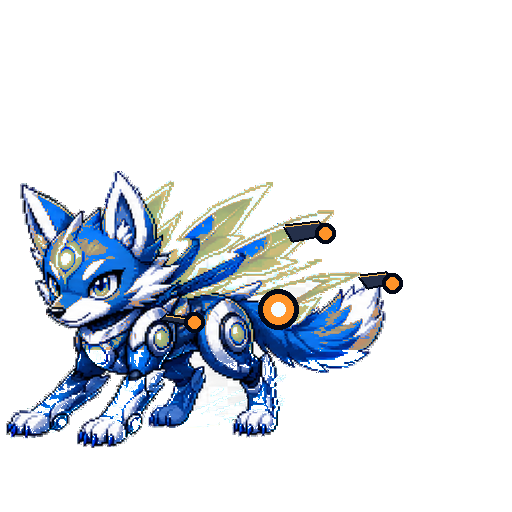
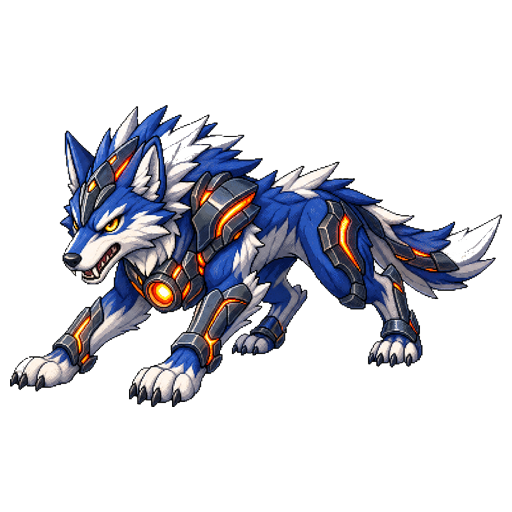
art: adopt S1 Cobalt Pup reboot line

diff --git a/docs/CODEX_S1_COBALT_PUP_L1_L2_REBOOT_20260615.md b/docs/CODEX_S1_COBALT_PUP_L1_L2_REBOOT_20260615.md
@@ -1,0 +1,283 @@
+# S1 Cobalt Pup L1/L2 Reboot Raw Candidates - 2026-06-15
+
+Status: **S1_COBALT_PUP_L1_L2_REBOOT_READY**
+
+Scope:
+- Codex generated raw visual candidates only.
+- No TECH_FIX.
+- No production PNG overwrite.
+- No `Assets/Resources/Skins` save.
+- No `.meta` edit.
+- No `CoreLanternGame.cs` edit.
+- No Unity settings / Prefab / Scene edit.
+- No git add / commit / push.
+
+Goal:
+- Rebuild S1 Cobalt Pup L1/L2 so the current L0 and current L3 routes connect more naturally.
+- L0 remains the young base form.
+- L1 should read as the first route growth.
+- L2 should read as a stronger middle route form that leads to the existing L3.
+- Current L3 and Fusion/ULTIMATE images were not changed.
+
+Preview:
+- `C:\Users\kodai\OneDrive\デスクトップ\claudecode-app\CoreLanternUnity\tmp_diag\S1_CobaltPup_L1_L2_Reboot_Preview_20260615.png`
+
+## Raw Candidate Outputs
+
+| Candidate ID | Intended file | Route civilization | Raw path | Candidate copy | Raw size |
+|---|---|---|---|---|---|
+| `S1_R1_L1_RAW_REBOOT_CYBER_01` | `Partner_S1_R1_L1.png` | R1 SPEED / cyber civilization | `C:\Users\kodai\.codex\generated_images\019e3668-9b71-7e42-91f4-6483282ef9b8\ig_0d7ad4a82b080f68016a2ed93883648191bedcdbaed339fd77.png` | `C:\Users\kodai\OneDrive\デスクトップ\claudecode-app\CoreLanternUnity\tmp_diag\candidates_hold\S1_R1_L1_RAW_REBOOT_CYBER_01.png` | 1364x1153 |
+| `S1_R2_L1_RAW_REBOOT_FURNACE_01` | `Partner_S1_R2_L1.png` | R2 POWER / furnace metal civilization | `C:\Users\kodai\.codex\generated_images\019e3668-9b71-7e42-91f4-6483282ef9b8\ig_0d7ad4a82b080f68016a2ed9d4d8208191b778e3d2c75bc867.png` | `C:\Users\kodai\OneDrive\デスクトップ\claudecode-app\CoreLanternUnity\tmp_diag\candidates_hold\S1_R2_L1_RAW_REBOOT_FURNACE_01.png` | 1375x1144 |
+| `S1_R3_L1_RAW_REBOOT_NATURE_01` | `Partner_S1_R3_L1.png` | R3 GUARD / bark-and-vine nature civilization | `C:\Users\kodai\.codex\generated_images\019e3668-9b71-7e42-91f4-6483282ef9b8\ig_0d7ad4a82b080f68016a2edab899cc8191a469b5476cdef4cd.png` | `C:\Users\kodai\OneDrive\デスクトップ\claudecode-app\CoreLanternUnity\tmp_diag\candidates_hold\S1_R3_L1_RAW_REBOOT_NATURE_01.png` | 1403x1121 |
+| `S1_R1_L2_RAW_REBOOT_CYBER_01` | `Partner_S1_R1_L2.png` | R1 SPEED / cyber civilization | `C:\Users\kodai\.codex\generated_images\019e3668-9b71-7e42-91f4-6483282ef9b8\ig_0d7ad4a82b080f68016a2edb4984d4819198596f932257590c.png` | `C:\Users\kodai\OneDrive\デスクトップ\claudecode-app\CoreLanternUnity\tmp_diag\candidates_hold\S1_R1_L2_RAW_REBOOT_CYBER_01.png` | 1336x1177 |
+| `S1_R2_L2_RAW_REBOOT_FURNACE_01` | `Partner_S1_R2_L2.png` | R2 POWER / furnace metal civilization | `C:\Users\kodai\.codex\generated_images\019e3668-9b71-7e42-91f4-6483282ef9b8\ig_0d7ad4a82b080f68016a2edbebe7348191879e1aee9b958d76.png` | `C:\Users\kodai\OneDrive\デスクトップ\claudecode-app\CoreLanternUnity\tmp_diag\candidates_hold\S1_R2_L2_RAW_REBOOT_FURNACE_01.png` | 1349x1166 |
+| `S1_R3_L2_RAW_REBOOT_NATURE_01` | `Partner_S1_R3_L2.png` | R3 GUARD / bark-and-vine nature civilization | `C:\Users\kodai\.codex\generated_images\019e3668-9b71-7e42-91f4-6483282ef9b8\ig_0d7ad4a82b080f68016a2edc7751e88191aceca6009df6ec0b.png` | `C:\Users\kodai\OneDrive\デスクトップ\claudecode-app\CoreLanternUnity\tmp_diag\candidates_hold\S1_R3_L2_RAW_REBOOT_NATURE_01.png` | 1361x1156 |
+
+## Evolution Connection Review
+
+### R1 SPEED / CYBER
+- L1: Keeps young Cobalt Pup DNA while adding cyan data lines, light cyber plates, and a more forward-ready stance.
+- L2: More mature, longer-legged, sharper and more streamlined; it bridges toward the current high-cyber L3.
+- Concern: L1 is already quite polished, so review whether it is still young enough compared with L0.
+
+### R2 POWER / FURNACE
+- L1: Introduces orange/gold furnace glow and slightly sturdier stepping posture without becoming a humanoid fighter.
+- L2: Stronger fore/hind legs, more forged-metal integration, and clearer furnace core; it bridges toward the current heavy-output L3.
+- Concern: L2 is visually close to a strong L3 candidate, so review against current L3 for over-maturity.
+
+### R3 GUARD / NATURE
+- L1: Adds early bark/vine hints and a steadier posture while preserving blue canine body.
+- L2: Matures into stronger bark/vine/wood guard armor while still reading as wolf/dog rather than tree monster.
+- Concern: L1 and L2 both have strong natural armor density; review whether L1 should be lighter if the line feels too steep from L0.
+
+## Civilization Difference Review
+
+- R1 SPEED = cyber: cyan data-line and lightweight armor language is clear.
+- R2 POWER = furnace metal: orange/gold furnace glow and forged metal language is clear.
+- R3 GUARD = nature: bark/vine/green-jade natural armor language is clear.
+- All routes keep blue/cobalt canine/wolf identity.
+
+## S1 Cobalt Pup DNA Review
+
+Preserved in all six raw candidates:
+- Blue/cobalt dog/wolf silhouette.
+- Pointed ears.
+- Muzzle.
+- Four-legged stance.
+- Tail.
+- Brave companion expression.
+- Small UI readable canine/wolf identity.
+
+## Normal Stage Review
+
+- L1: Generally reads as first route growth, though some candidates may be slightly polished for L1.
+- L2: Generally reads as middle route growth and not stronger than the current L3.
+- No humanoid form, no ULTIMATE concept-lifeform, no huge wings, no magic circle, no particles, and no speed-line based power expression.
+
+## Technical State
+
+- All six generated images are raw visual candidates only.
+- All six require Claude TECH_FIX before any production use: 512x512 / RGBA / transparent background / alpha validation.
+- Raw outputs appear to include baked checker-style backgrounds and are not production-ready.
+
+Unchanged:
+- `Partner_S1_L0.png` was not edited.
+- `Partner_S1_R1_L3.png`, `Partner_S1_R2_L3.png`, `Partner_S1_R3_L3.png` were not edited.
+- S1 Fusion / ULTIMATE images were not edited.
+- No production PNG overwrite.
+- No `.meta` edit.
+- No `CoreLanternGame.cs` edit.
+- No Unity settings / Prefab / Scene edit.
+- No git operation.
+
+## L3 Target Reboot - 2026-06-15
+
+Status: `S1_COBALT_PUP_L3_TARGET_REBOOT_READY`
+
+Per user direction, the L2 retake pass is stopped. The previous L2 raw candidates are now treated only as new L1 reference candidates, and this pass creates the normal-route L3 target first so the later L2 bridge can be designed toward a clear endpoint.
+
+### Raw Target Candidates
+
+| Candidate ID | Intended production slot | Route civilization | Raw source path | Candidate copy path | Technical state |
+|---|---|---|---|---|---|
+| `S1_R1_L3_RAW_REBOOT_CYBER_TARGET_01` | `Partner_S1_R1_L3.png` | R1 SPEED / CYBER | `C:\Users\kodai\.codex\generated_images\019e3668-9b71-7e42-91f4-6483282ef9b8\ig_0d7ad4a82b080f68016a2ee1def3ac8191b01141facf83d499.png` | `CoreLanternUnity\tmp_diag\candidates_hold\S1_R1_L3_RAW_REBOOT_CYBER_TARGET_01.png` | `TECH_FIX_REQUIRED` |
+| `S1_R2_L3_RAW_REBOOT_FURNACE_TARGET_01` | `Partner_S1_R2_L3.png` | R2 POWER / FURNACE | `C:\Users\kodai\.codex\generated_images\019e3668-9b71-7e42-91f4-6483282ef9b8\ig_07057753af1f04d9016a2ee4cbe89c8191a07671dd202aefad.png` | `CoreLanternUnity\tmp_diag\candidates_hold\S1_R2_L3_RAW_REBOOT_FURNACE_TARGET_01.png` | `TECH_FIX_REQUIRED` |
+| `S1_R3_L3_RAW_REBOOT_NATURE_TARGET_01` | `Partner_S1_R3_L3.png` | R3 GUARD / NATURE | `C:\Users\kodai\.codex\generated_images\019e3668-9b71-7e42-91f4-6483282ef9b8\ig_07057753af1f04d9016a2ee555c9f88191aad8ced59cbeb504.png` | `CoreLanternUnity\tmp_diag\candidates_hold\S1_R3_L3_RAW_REBOOT_NATURE_TARGET_01.png` | `TECH_FIX_REQUIRED` |
+
+Preview:
+- `CoreLanternUnity\tmp_diag\S1_CobaltPup_L3_Target_Reboot_Preview_20260615.png`
+
+### Evolution Connection Review
+
+- The preview now compares `L0 production -> new L1 reference -> current L3 reference -> new L3 target`.
+- This pass intentionally does not produce L2. L2 should be generated later as the bridge between the promoted L1 reference and the selected L3 target.
+- R1 CYBER target keeps the blue cyber wolf direction and avoids robot-dog overreach, but it may be slightly conservative as a final L3 compared with the current production L3.
+- R2 FURNACE target has the clearest new endpoint: stronger charge posture, orange/gold furnace core language, and four-legged power without humanoid fighter drift.
+- R3 NATURE target has a clear natural guardian endpoint with bark/vine integration while keeping blue Cobalt Pup body identity.
+
+### Existing L3 vs New L3
+
+- R1: current L3 reads more dramatic and crystalline; new target reads cleaner and more route-rule aligned, but may need a sharper silhouette if selected as the final endpoint.
+- R2: new target is more aligned with the furnace-metal civilization rule than the current reference and avoids Iron Bear-level mass.
+- R3: new target is more aligned with the nature civilization rule than the current reference and avoids fortress, shield, and stone-armor language.
+
+### Route Civilization Review
+
+- R1 SPEED / CYBER: cyan/blue cyber armor, light body language, no speed-line dependence.
+- R2 POWER / FURNACE: orange/gold furnace core, charge posture, forged-metal accents, no humanoid punching silhouette.
+- R3 GUARD / NATURE: green/teal/jade natural armor, low guardian posture, no external barrier or castle language.
+
+### S1 Cobalt Pup DNA Review
+
+All three new L3 targets preserve:
+- Dog/wolf silhouette.
+- Pointed ears.
+- Muzzle.
+- Four-legged body.
+- Tail.
+- Blue/cobalt identity.
+- Companion readability at small size.
+
+### Technical State
+
+- Generated raw files are visual candidates only.
+- Technical readout: `1402x1122`, `Format24bppRgb`, corner alpha `255,255,255,255`.
+- All three require Claude TECH_FIX before any production use: crop/fit to `512x512`, convert to `RGBA`, remove baked background/checker, transparent background, alpha validation.
+
+Unchanged in this pass:
+- No new L2 candidate was created after the user changed the order.
+- No production PNG overwrite.
+- No existing L0/L3 production file edit.
+- No candidate PNG overwrite except copying R1 to the requested target filename.
+- No `.meta` edit.
+- No `CoreLanternGame.cs` edit.
+- No Unity settings / Prefab / Scene edit.
+- No git operation.
+
+## L3 Impact Retake 02 - 2026-06-15
+
+Status: `S1_COBALT_PUP_L3_IMPACT_RETAKE_02_READY`
+
+User direction changed the L3 target from "preserve dog/wolf DNA strongly" to "normal final combat beast fused with route civilization." This pass retakes only the three normal L3 endpoints. No L2 candidates were created.
+
+### Raw Impact Candidates
+
+| Candidate ID | Intended production slot | Route civilization | Raw source path | Candidate copy path | Technical state |
+|---|---|---|---|---|---|
+| `S1_R1_L3_RAW_REBOOT_CYBER_IMPACT_RETAKE_02` | `Partner_S1_R1_L3.png` | R1 SPEED / CYBER | `C:\Users\kodai\.codex\generated_images\019e3668-9b71-7e42-91f4-6483282ef9b8\ig_07057753af1f04d9016a2ee8a1716c8191bcccf57505325aaa.png` | `CoreLanternUnity\tmp_diag\candidates_hold\S1_R1_L3_RAW_REBOOT_CYBER_IMPACT_RETAKE_02.png` | `TECH_FIX_REQUIRED` |
+| `S1_R2_L3_RAW_REBOOT_FURNACE_IMPACT_RETAKE_02` | `Partner_S1_R2_L3.png` | R2 POWER / FURNACE | `C:\Users\kodai\.codex\generated_images\019e3668-9b71-7e42-91f4-6483282ef9b8\ig_07057753af1f04d9016a2ee918d83c8191adf844163481d143.png` | `CoreLanternUnity\tmp_diag\candidates_hold\S1_R2_L3_RAW_REBOOT_FURNACE_IMPACT_RETAKE_02.png` | `TECH_FIX_REQUIRED` |
+| `S1_R3_L3_RAW_REBOOT_NATURE_IMPACT_RETAKE_02` | `Partner_S1_R3_L3.png` | R3 GUARD / NATURE | `C:\Users\kodai\.codex\generated_images\019e3668-9b71-7e42-91f4-6483282ef9b8\ig_07057753af1f04d9016a2ee9913d588191b8320bd790dfa29e.png` | `CoreLanternUnity\tmp_diag\candidates_hold\S1_R3_L3_RAW_REBOOT_NATURE_IMPACT_RETAKE_02.png` | `TECH_FIX_REQUIRED` |
+
+Preview:
+- `CoreLanternUnity\tmp_diag\S1_CobaltPup_L3_Impact_Retake_02_Preview_20260615.png`
+
+### Impact Review
+
+- R1 CYBER: stronger than the previous target as a speed-combat form. The body reads as a cyber exoskeleton wolf rather than a plain animal with armor. It still avoids wings, speed lines, and full robot-dog drift.
+- R2 FURNACE: clearest improvement. The furnace core, heavier forelegs, shoulder mass, and charge posture make the route endpoint much more readable while staying below ULTIMATE scale.
+- R3 NATURE: stronger natural armor integration. Bark/vine structure is now part of the body silhouette instead of small surface decoration, while the blue Cobalt Pup lineage remains visible.
+
+### L0 -> L1 Ref -> L3 Endpoint Notes
+
+- The promoted L1 references still work as first route-growth forms.
+- Impact Retake 02 gives clearer L3 endpoints for later L2 bridge design.
+- Future L2 should sit between the L1 references and these impact L3 endpoints, with a larger silhouette step than the earlier L1.5-like attempts.
+
+### Existing / Previous L3 Comparison
+
+- Compared with current production L3, the impact retakes follow the route civilization rules more explicitly.
+- Compared with the previous new L3 target set, this pass has better final-form presence and less "animal base plus armor" weakness.
+- R2 and R3 are the strongest candidates from this pass. R1 is improved, but should still be checked at small UI size to ensure the speed silhouette reads as final-form rather than mid-stage.
+
+### Technical State
+
+- Technical readout for all three impact candidates: `1402x1122`, `Format24bppRgb`, corner alpha `255,255,255,255`.
+- All three require Claude TECH_FIX before production use: crop/fit to `512x512`, convert to `RGBA`, remove baked background/checker, transparent background, alpha validation.
+
+Unchanged in this pass:
+- No L2 candidate was created.
+- No production PNG overwrite.
+- No previous candidate PNG overwrite.
+- No existing L0/L3 production file edit.
+- No `.meta` edit.
+- No `CoreLanternGame.cs` edit.
+- No Unity settings / Prefab / Scene edit.
+- No git operation.
+
+## L2 Evolution Delta Retake - 2026-06-15
+
+Status: `S1_COBALT_PUP_L2_EVOLUTION_DELTA_READY`
+
+User confirmed the Impact Retake 02 set as the new S1 normal L3 target candidates. This pass creates only the three L2 bridge candidates that sit between the promoted L1 references and those new L3 targets. No L3 target was regenerated.
+
+### Raw L2 Candidates
+
+| Candidate ID | Intended production slot | Route civilization | Raw source path | Candidate copy path | Technical state |
+|---|---|---|---|---|---|
+| `S1_R1_L2_RAW_REBOOT_CYBER_EVOLUTION_DELTA_01` | `Partner_S1_R1_L2.png` | R1 SPEED / CYBER | `C:\Users\kodai\.codex\generated_images\019e3668-9b71-7e42-91f4-6483282ef9b8\ig_0fda8406c63d4d90016a2eeb8a6d40819184f6bad17c9fcd06.png` | `CoreLanternUnity\tmp_diag\candidates_hold\S1_R1_L2_RAW_REBOOT_CYBER_EVOLUTION_DELTA_01.png` | `TECH_FIX_REQUIRED` |
+| `S1_R2_L2_RAW_REBOOT_FURNACE_EVOLUTION_DELTA_01` | `Partner_S1_R2_L2.png` | R2 POWER / FURNACE | `C:\Users\kodai\.codex\generated_images\019e3668-9b71-7e42-91f4-6483282ef9b8\ig_0fda8406c63d4d90016a2eebeb75148191b9c2995112fa5d34.png` | `CoreLanternUnity\tmp_diag\candidates_hold\S1_R2_L2_RAW_REBOOT_FURNACE_EVOLUTION_DELTA_01.png` | `TECH_FIX_REQUIRED` |
+| `S1_R3_L2_RAW_REBOOT_NATURE_EVOLUTION_DELTA_01` | `Partner_S1_R3_L2.png` | R3 GUARD / NATURE | `C:\Users\kodai\.codex\generated_images\019e3668-9b71-7e42-91f4-6483282ef9b8\ig_0fda8406c63d4d90016a2eec351fb481918c9149601d32a999.png` | `CoreLanternUnity\tmp_diag\candidates_hold\S1_R3_L2_RAW_REBOOT_NATURE_EVOLUTION_DELTA_01.png` | `TECH_FIX_REQUIRED` |
+
+Preview:
+- `CoreLanternUnity\tmp_diag\S1_CobaltPup_L2_Evolution_Delta_Preview_20260615.png`
+
+### Evolution Delta Review
+
+- R1 SPEED / CYBER: L2 now changes the body language rather than only adding armor. The body is longer, lower, and more forward-driving than the L1 reference, with a clearer young high-speed wolf silhouette. It still leaves the L3 target as the more finished cyber exoskeleton form.
+- R2 POWER / FURNACE: L2 now reads as a young charging furnace wolf. Chest, shoulder, foreleg, jaw, and stance are stronger than L1, while the furnace core and metal mass remain below the L3 target.
+- R3 GUARD / NATURE: L2 now moves toward a stable guardian wolf shape. The lower stance and growing bark/vine armor make it visibly more defensive than L1, while the natural armor is not yet as complete as L3.
+
+### L1 Difference Check
+
+- The L2 candidates are not the same standing pose as the L1 references.
+- All three L2 candidates change body length, leg length, stance, face sharpness, chest/shoulder silhouette, and tail/back profile.
+- Route identity is readable from silhouette and materials, not only from glow-line color.
+
+### L3 Connection Check
+
+- R1 connects to the Impact Retake 02 speed-cyber wolf through forward posture, long limbs, and a growing tail/back cyber structure.
+- R2 connects to the Impact Retake 02 furnace wolf through a developing core, heavier forequarters, and charge posture.
+- R3 connects to the Impact Retake 02 nature guardian wolf through lower stance and integrated bark/vine armor.
+- None of the L2 candidates are as large, dense, or endpoint-like as the L3 targets.
+
+### Technical State
+
+- R1 technical readout: `1402x1122`, `Format24bppRgb`, corner alpha `255,255,255,255`, outer 2px nonzero alpha count `10096`.
+- R2 technical readout: `1402x1122`, `Format24bppRgb`, corner alpha `255,255,255,255`, outer 2px nonzero alpha count `10096`.
+- R3 technical readout: `1312x1199`, `Format24bppRgb`, corner alpha `255,255,255,255`, outer 2px nonzero alpha count `10044`.
+- All three require Claude TECH_FIX before production use: crop/fit to `512x512`, convert to `RGBA`, remove baked background/checker, transparent background, alpha validation.
+
+Unchanged in this pass:
+- No production PNG overwrite.
+- No previous candidate PNG overwrite.
+- No L3 target regeneration.
+- No TECH_FIX.
+- No `.meta` edit.
+- No `CoreLanternGame.cs` edit.
+- No Unity settings / Prefab / Scene edit.
+- No git operation.
+
+
+## 2026-06-15 S1 Cobalt Pup candidate cleanup + board
+
+- NEW L3 = IMPACT_RETAKE_02 3枚を確定ターゲット化（R1 CYBER / R2 FURNACE / R3 NATURE）。
+- KEEP9: L1 reboot 3 + L2 EVOLUTION_DELTA 3 + L3 IMPACT_RETAKE_02 3（candidates_hold 保持）。
+- 旧L3候補（initial / TARGET_01 / previous）は superseded、旧L2（raw/retake）は L2_FAIL/L1.5 として tmp_diag/candidates_obsolete_20260615/ へ移動（削除なし）。
+- 次工程: 確定L3へ繋がる L2 EVOLUTION_DELTA を起点に L2->L3 連続性を詰める。
+- 本番未反映 / TECH_FIX未実施 / git操作なし。
+- 出力: tmp_diag/s1_cobaltpup_reboot_board_20260615.html(.png) / partner_evolution_board_clean_20260615.html(.png) / candidate_cleanup_manifest_20260615.csv
+
+## 2026-06-15 S1 Cobalt Pup KEEP9 TECH_FIX
+
+- KEEP9 (L1 reboot / L2 EVOLUTION_DELTA / L3 IMPACT_RETAKE_02) to 512x512 / RGBA / transparent / corner-alpha0 / outer2px0 (aspect preserved, centered).
+- Output: tmp_diag/candidates_hold/S1_R{1,2,3}_{L1,L2,L3}_REBOOT_{CYBER,FURNACE,NATURE}_TECHFIX_512.png (9).
+- preview: tmp_diag/S1_CobaltPup_FULL_REBOOT_TECHFIX_PREVIEW_20260615.png / board: tmp_diag/s1_cobaltpup_full_reboot_techfix_board_20260615.html
+- honban mihanei / .meta untouched / no git. raw candidates unchanged.
+
+## 2026-06-15 S1 Cobalt Pup L1/L2/L3 FULL REBOOT production adoption (ADOPT_PASS)
+
+- S1 R1/R2/R3 x L1/L2/L3 = 9 production PNG overwritten with REBOOT TECHFIX_512 (512/RGBA/transparent/corner0/outer2px0).
+- L0 base and F/ULTIMATE (F1-F6) kept unchanged.
+- after-hash == TECHFIX hash for all 9; .meta hash/mtime unchanged.
+- backup of pre-adopt production: tmp_diag/s1_full_reboot_backup_20260615/ (backup-hash == before-hash).
+- no git operation; Unity/Prefab/Scene/cs untouched.
